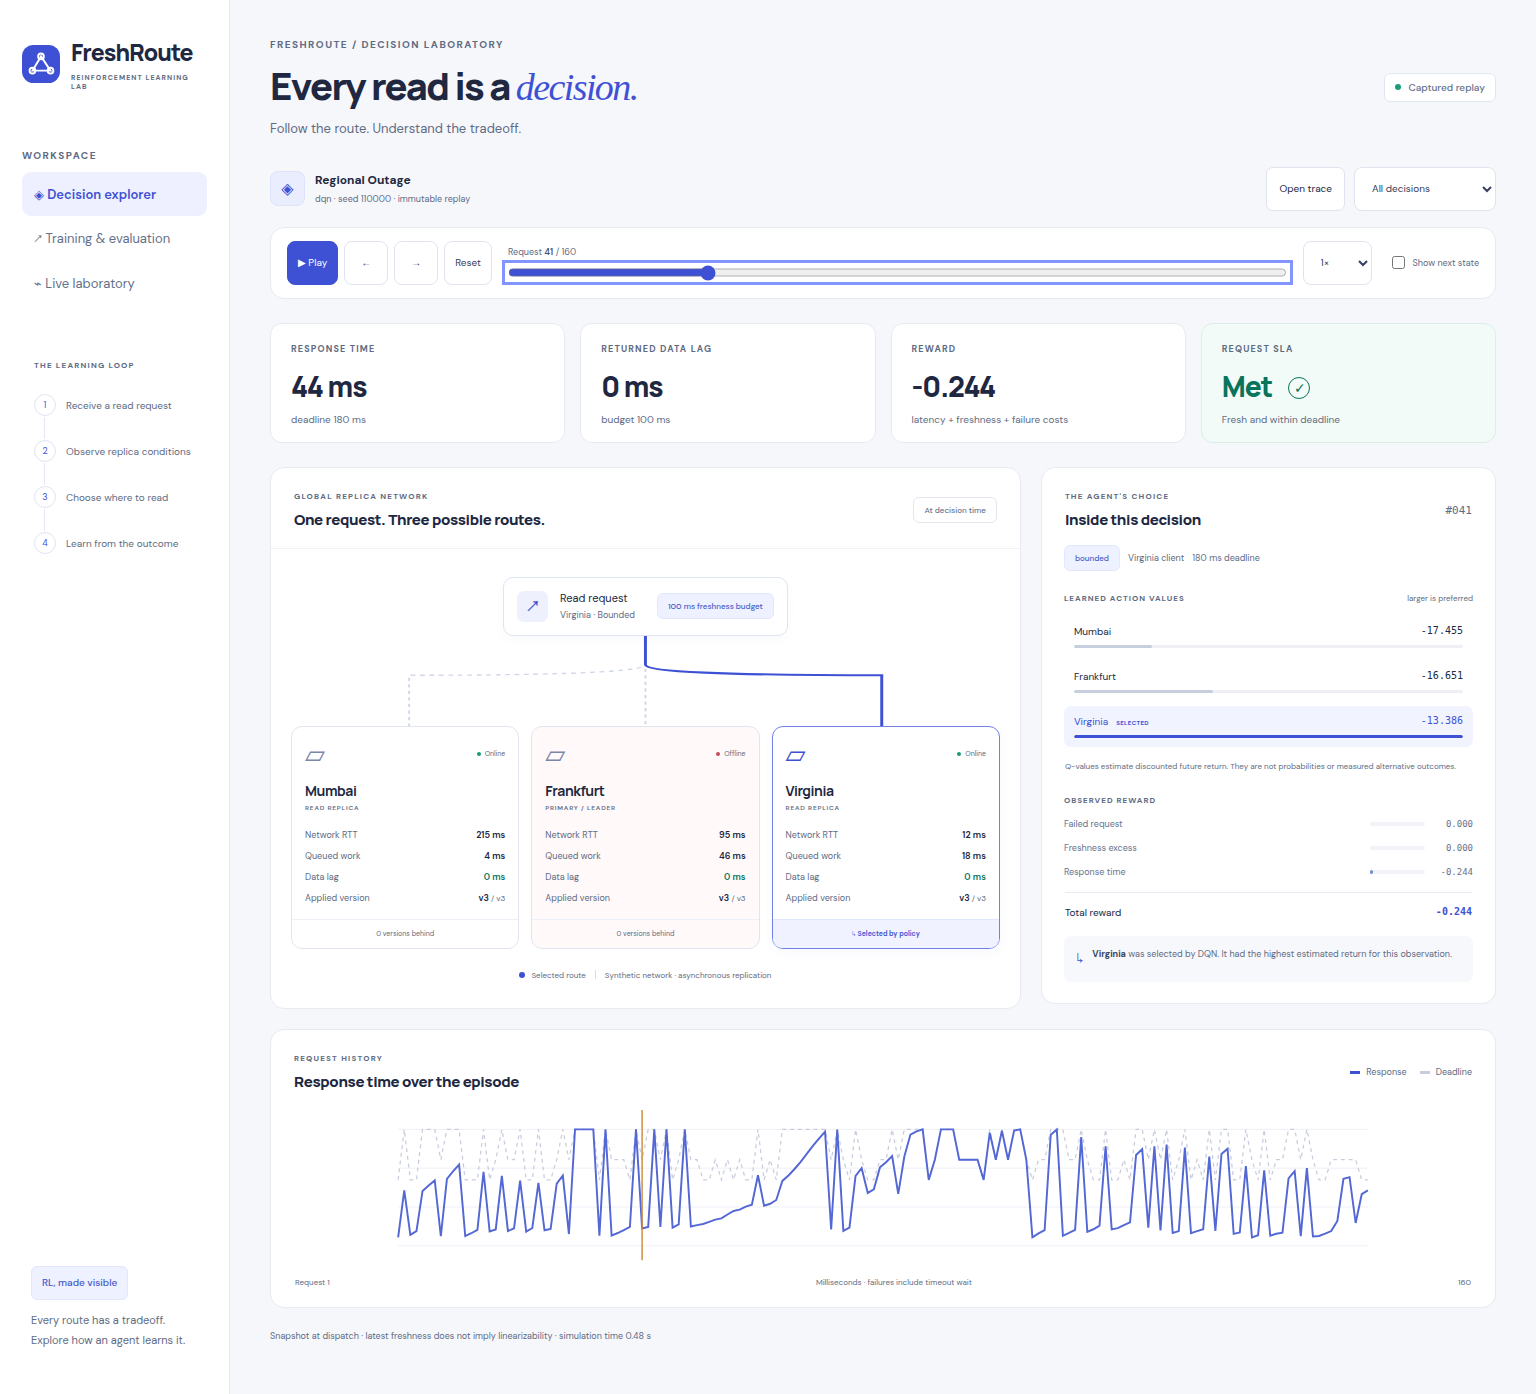
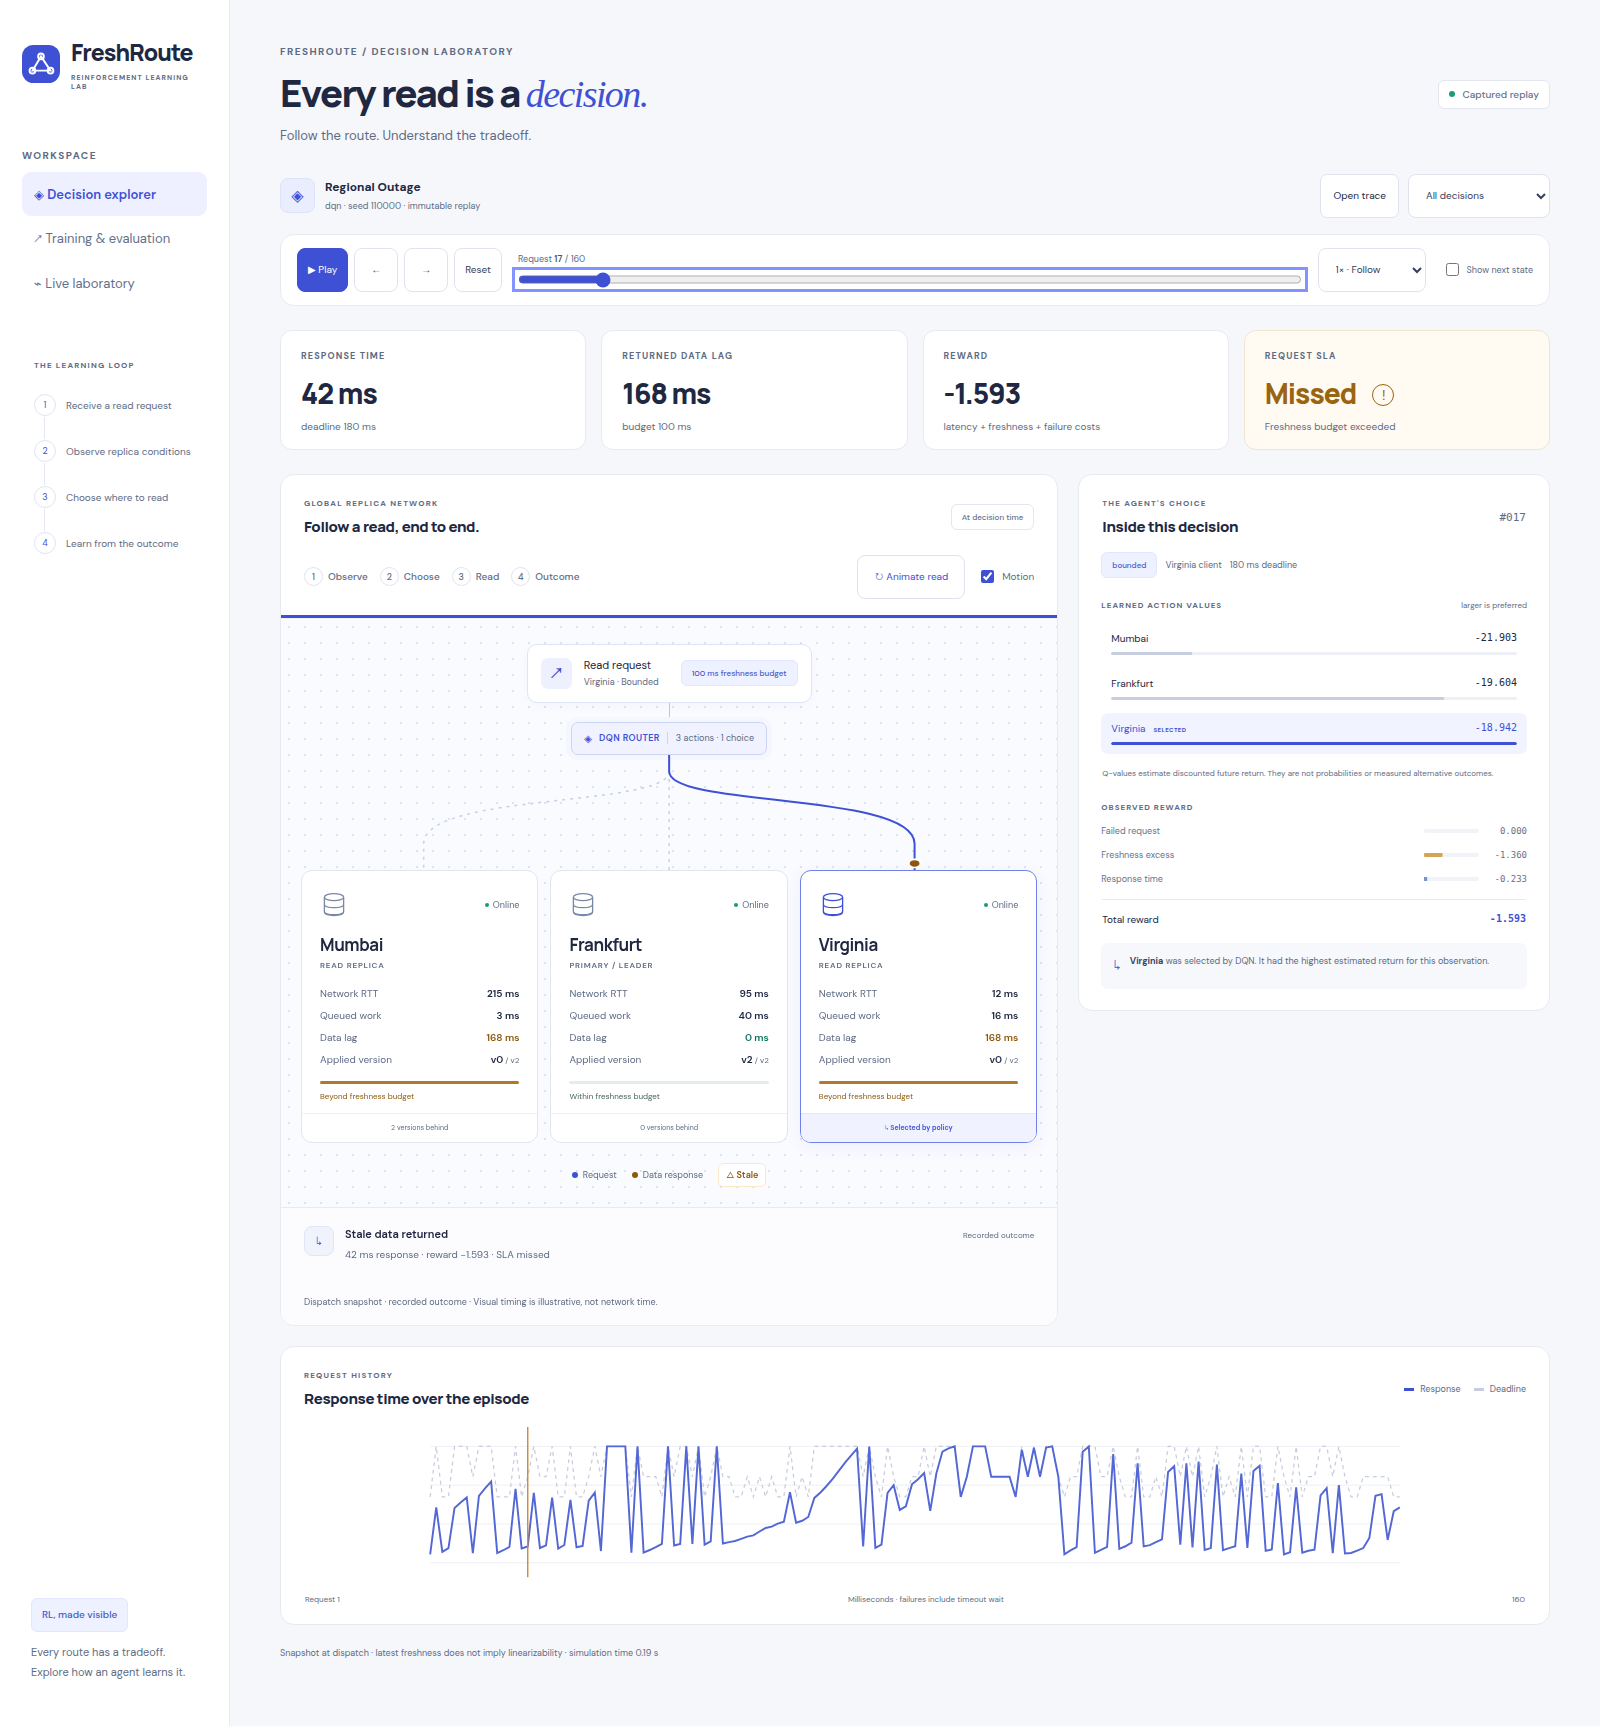
docs: explain routing motion and refresh demonstration evidence
Demonstration timeline: dates and author assignments are illustrative,
not evidence of when the original work occurred or who performed it.
The file snapshot comes from the original commit below.

Original-Commit: 99f26c66e37d5836addf0696341f3e064bd1e35c
Original-Author: Khushvendra <khushvendras99@gmail.com>
Original-Author-Date: 2026-10-23T14:54:23+05:30

diff --git a/docs/validation.md b/docs/validation.md
@@ -7,16 +7,21 @@ The user story is: choose a replay or live model in the browser, observe real ro
 | Python simulator and learning | 30 checks pass, including reward accounting, freshness/version invariants, seeded replay, temporal-difference updates, training/save/load, Gymnasium checker, and observation bounds. |
 | Release model and evidence | All 14 frozen weights hashes verify; selected model and trace hashes verify; the current simulator exactly reproduces the saved DQN replay. |
 | API and simulator | Seeded API decision records equal CLI records; sessions remain isolated; episode completion, invalid requests, fault injection, export integrity, and selected-decision counterfactuals pass. |
-| Browser and actual API | Four Playwright tests pass against the built app at port 8000, including real DQN inference, outage injection, and same-snapshot branch rendering. |
+| Browser and actual API | Eight Playwright tests pass against the built app at port 8000, including real DQN inference, outage injection, and same-snapshot branch rendering. |
 | Replay interaction | Displayed action/reward values match trace data; keyboard stepping, last-record stopping, reset, invalid-file rejection, and mobile width checks pass. |
 | Accessibility | Automated WCAG A/AA rules report no violations in the tested replay and live/branch views. Manual screen-reader review remains a team check. |
 | Production bundle | TypeScript and Vite production build pass; fonts and default replay assets are bundled locally. |
-| Clean checkout | A separate Git archive installed all 31 Python packages from the hashed locks and all 77 npm packages from the lockfile, built the app, passed all 30 Python checks, and passed all four browser checks against its own server on port 8001. Cached downloads were reused; project environments and build outputs were created afresh. |
+| Animated routing | Packet geometry follows the selected actual route. Successful and stale reads return data; timeout/offline reads have no return packet. Pause/resume, automatic replay interruption, rapid seeking, next-state exclusion, local motion disable, dynamic system reduced-motion changes, and mobile width checks pass. |
+| Development mode | Representative packet/pause/return and preference-change browser tests also pass against Vite with React Strict Mode. |
+| Clean checkout, original release | A separate Git archive of the original release installed all 31 Python packages from the hashed locks and all 77 npm packages from the lockfile, built the app, passed all 30 Python checks, and passed all four original browser checks against its own server on port 8001. Cached downloads were reused; project environments and build outputs were created afresh. |
+| Clean frontend, motion extension | A fresh temporary frontend directory installed all 82 npm packages from the updated lockfile and completed TypeScript/Vite production build with the same output hashes as the working frontend. The Python implementation and model artifacts are unchanged by this extension. |
 | Training revision provenance | Recomputed source fingerprints match Q-learning commit `dd61a07` and DQN training commit `54bb60b`. |
 
 Tested runtime: Linux, Python 3.12.14, Node.js 24.21.0, Gymnasium 1.4.0, Stable-Baselines3 2.9.0, PyTorch 2.14.1+cpu, and NumPy 2.5.4. Exact dependency hashes are in the Python locks and npm lockfile. The original Q-learning artifact was produced with Python 3.12.3 at its recorded source revision.
 
 The restricted execution sandbox stalled the API test client's local event-loop startup and denied esbuild's postinstall binary execution in the clean checkout. Both passed when rerun with the required local execution/socket permissions; the evidence above uses those successful runs. CodeRabbit was signed out, so external CodeRabbit review was not performed. Direct code inspection and executable checks were completed.
+
+The motion extension uses Motion 14.6.0's mini entry point and includes its MIT notice in the built static assets. The isolated engine measures 3,349 bytes gzip; total application JavaScript is 83.44 kB gzip and CSS is 9.33 kB gzip. See [measurement details and visual semantics](visualization.md). Updated screenshots were captured from the actual application. Automated accessibility checks cover the tested views; no frame-rate benchmark, low-end-device measurement, or narrated video is claimed.
 
 ## Re-run
 

diff --git a/docs/visualization.md b/docs/visualization.md
@@ -1,0 +1,36 @@
+# Following a read through the system
+
+The web laboratory turns a real routing decision into a finite visual walkthrough. Press **Animate read** to inspect one decision, or **Play** to follow the captured episode. In the live laboratory, each actual simulator step starts a walkthrough of that new decision.
+
+![A paused real routing walkthrough](images/read-walkthrough.png)
+
+## What the motion means
+
+| Stage | Visual | Data source |
+| --- | --- | --- |
+| Observe | Client region, request class, freshness budget, and deadline | Observation available before acting |
+| Choose | Policy hub and the selected replica's route | Executed action and recorded learned Q-values |
+| Read | Blue request packet, service indicator, and a possible return packet | Selected action, dispatch telemetry, and recorded transport outcome |
+| Outcome | Fresh/stale/failed status, measured response, and reward narration | Actual recorded outcome and reward terms |
+
+A successful read returns a green packet when it meets the freshness budget, or an amber packet when its data is stale. Offline and timed-out reads have no return packet; the narration explains the failure. Labels and symbols accompany the colors. The replica gauges compare observed timestamp lag with the request's budget, capped at a full gauge when exceeded.
+
+Animation timing is illustrative. The measured latency remains the recorded number of milliseconds, regardless of playback speed. All recorded outcome metrics are available immediately, including while paused. The walkthrough neither changes the simulator nor requests another action. Live inference uses frozen RL weights; observing a reward in this view does not retrain the agent.
+
+Q-value bars compare estimated returns within the current observation. They are not probabilities or measured alternatives. Use the live snapshot branches to measure alternative outcomes from identical simulator and random state.
+
+## Presentation controls
+
+- **Animate read / Pause motion / Resume:** inspect the current read without advancing it. Pausing motion also stops automatic replay or live advancement.
+- **0.5× Explain / 1× Follow / 4× Scan:** nominal walkthrough durations of 6.4, 3.2, and 0.8 seconds. Live automatic reads use the 3.2-second presentation interval plus inference time.
+- **Previous / Next / seek / filters:** inspect another actual decision. The preceding walkthrough is canceled. Captured replay opens with a static recorded outcome.
+- **Motion:** disable routing motion while retaining all information. A system reduced-motion preference disables the engine and updates immediately when the preference changes.
+- **Show next state:** display the next observation without moving packets. The highlighted route still identifies the preceding action, as stated in the caption.
+
+## Engine and cost
+
+The application imports only `animate` from [`motion/mini`](https://motion.dev/docs/animate), pinned to Motion **14.6.0**, under its [MIT license](../web/public/motion-license.txt). The browser runs finite transform and opacity animations. SVG paths are native elements, with packet positions sampled from the selected path. There is one active walkthrough, cleaned up on replacement or unmount, and no continuous background traffic or graph-physics loop.
+
+An isolated minified ES2022 browser bundle exporting this entry point measured **8,444 bytes raw / 3,349 bytes gzip** using the lockfile's esbuild and Node gzip. The complete production JavaScript bundle grew from **77.86 kB to 83.44 kB gzip**, including the engine and all new UI logic; CSS is **9.33 kB gzip**. These are build measurements, not a frame-rate or low-end-device benchmark. Fonts, replay data, and the license notice are local assets.
+
+The implementation is in [Topology.tsx](../web/src/Topology.tsx), [read-motion.ts](../web/src/read-motion.ts), and [topology.css](../web/src/topology.css). Browser checks in [routing-motion.spec.ts](../web/e2e/routing-motion.spec.ts) exercise real recorded trajectories, stale and failed responses, pause/resume, interrupted playback, seeking, and reduced motion. See the [verification record](validation.md).

diff --git a/README.md b/README.md
@@ -12,7 +12,7 @@ FreshRoute RL is a runnable reinforcement learning laboratory for staleness-awar
 
 - Three simulated replicas with persistent queues, asynchronous version replay, region-dependent RTTs, deadlines, and request-specific freshness budgets.
 - Genuine tabular Q-learning and CPU DQN training, saved models, frozen inference, and checksummed replay traces.
-- Replay controls, topology, pre-action telemetry, learned action values, reward terms, learning curves, and policy comparisons.
+- Replay controls, animated request/response routing, pre-action telemetry, learned action values, reward terms, learning curves, and policy comparisons.
 - Isolated live sessions with outages, lag, workload pressure, restoration, trace export, and exact-state counterfactual branches.
 - A preserved 14-model DQN study: five full-observation training seeds and three per ablation; 700,000 training interactions, paired validation, and a frozen final test.
 
@@ -43,9 +43,11 @@ python -m pip install --extra-index-url https://download.pytorch.org/whl/cpu --r
 
 In the interface:
 
-1. **Decision explorer:** play, step, seek, filter events, open a local JSONL trace, and compare pre-action versus next-state telemetry. The bundled trace is verified against its manifest hash.
+1. **Decision explorer:** play, step, seek, filter events, open a local JSONL trace, and compare pre-action versus next-state telemetry. Use **Animate read** to follow observation → choice → read → outcome, or choose Explain/Follow/Scan playback speeds. Motion can be paused or disabled and respects the system reduced-motion preference. The bundled trace is verified against its manifest hash.
 2. **Training & evaluation:** inspect raw learning curves and the bundled frozen model's test results. This report has its own model/split identity; it does not evaluate a newly opened custom trace.
 3. **Live laboratory:** choose a trained model, workload, and validation seed; start a session, inject faults, step the agent, compare all replica choices from the selected exact snapshot, or export the trace.
+
+The [visualization guide](docs/visualization.md) explains the motion and its data sources. It uses the MIT-licensed [Motion mini engine](https://motion.dev/docs/animate), measured at 3.3 kB gzip in isolation. Animation speed illustrates the sequence; response times and rewards remain actual simulator measurements.
 
 ## Run the RL core without the web stack
 
@@ -109,7 +111,7 @@ For browser checks, keep the server running in another terminal:
 LAB_URL=http://127.0.0.1:8000 npm --prefix web run test:e2e
 ```
 
-Tests use installed Chrome at `/usr/bin/google-chrome`; set `CHROME_PATH` for another installation, or install Playwright Chromium. Automated checks cover replay accuracy, keyboard navigation, invalid uploads, mobile layout, actual live DQN/fault/counterfactual flow, and WCAG A/AA rules in replay/live views. They do not replace a manual screen-reader review.
+Tests use installed Chrome at `/usr/bin/google-chrome`; set `CHROME_PATH` for another installation, or install Playwright Chromium. Eight browser checks cover replay accuracy, real packet paths and return/failure semantics, pause/seek cleanup, reduced motion, keyboard navigation, invalid uploads, mobile layout, actual live DQN/fault/counterfactual flow, and WCAG A/AA rules in replay/live views. They do not replace a manual screen-reader review.
 
 For frontend development, keep the Python server running and use `npm --prefix web run dev`. Vite proxies `/api` to port 8000. After changing demo/release artifacts, rerun `node scripts/sync-demo.mjs` and rebuild.
 

diff --git a/docs/demo-guide.md b/docs/demo-guide.md
@@ -5,7 +5,7 @@ Run the setup/build/server commands in the [README](../README.md), then open `ht
 | Time | Show | Explain |
 | --- | --- | --- |
 | 0:00–0:45 | Three-region topology and SLA classes | Nearest reads can be stale; leader reads can be slow or overloaded. Requests have different budgets. |
-| 0:45–1:30 | Pause and step a replay decision | Separate the observation available before acting from the outcome measured afterward. Identify the largest Q-value and selected action. |
+| 0:45–1:30 | Animate a replay decision at Explain speed, then pause and step | Follow observation → choice → read → outcome. Separate dispatch telemetry from measured outcomes. Identify the largest Q-value and selected action. |
 | 1:30–2:15 | Queue pressure, data lag, reward costs, next-state toggle | Routing changes future workload; timestamp lag differs from time since the last write. Sum the cost terms. |
 | 2:15–3:00 | Training and evaluation view | Show the actual learning curve, test split, named controls, and limitations. Reported scores come from a fixed synthetic workload. |
 | 3:00–4:00 | Live laboratory, DQN, seed 110000, balanced workload | Start a session, inject a Mumbai outage for 20 reads, and step. Observe actual availability/choice changes. Restore the replica or inject follower lag. |
@@ -13,6 +13,8 @@ Run the setup/build/server commands in the [README](../README.md), then open `ht
 | 4:40–5:00 | Export trace/manifest and open repository | Show reproducible setup, trained models, validation/test evidence, and actual incremental commits. |
 
 Outage or lag injection need not change the chosen replica on every request. The agent may already prefer another replica. Explain the actual displayed result instead of promising a scripted reaction.
+
+For a clear motion example, reset the replay and press **Animate read**: the first read returns fresh data. Seek to request 17 for a real stale response, request 30 for an unavailable replica, or request 87 for a timeout. Stale data returns in amber; failed reads have no return packet. The phase narration describes the captured result, and playback duration does not represent physical network latency. **Pause motion** also stops automatic advancement; **Resume** walks through the current read. See the [visualization guide](visualization.md) and [walkthrough screenshot](images/read-walkthrough.png).
 
 For a compact backup, use the bundled immutable replay. It works without a live inference session. Keyboard navigation, reduced-motion support, and a narrow-screen layout are available. Screenshots of the real interface are in [images](images/decision-explorer.png).
 

diff --git a/docs/commit-plan.md b/docs/commit-plan.md
@@ -1,6 +1,6 @@
 # Structured commit record
 
-The original 16-unit plan has been implemented as real local commits on `main`, with `origin` configured to `https://github.com/1amKhush/freshroute-rl.git`. Independent web work was committed once its prerequisites were ready; Git history records the actual order. No dates or contributor identities were fabricated.
+The original 16-unit plan and the routing-motion extension have been implemented as real commits on `main`, with `origin` configured to `https://github.com/1amKhush/freshroute-rl.git`. Independent web work was committed once its prerequisites were ready; Git history records the actual order. No dates or contributor identities were fabricated.
 
 | Unit | Commit | Work |
 | --- | --- | --- |
@@ -19,7 +19,9 @@ The original 16-unit plan has been implemented as real local commits on `main`, 
 | C13 | `4a7bdda` | feat: inject replica faults during live inference |
 | C14 | `0a708a3` | feat: explain alternatives with snapshot counterfactuals |
 | C15 | `23ad6f6` | experiment: freeze final models and held-out test results |
-| C16 | this documentation commit | docs: publish reproduction guide report and demo script |
+| C16 | `a376277` | docs: publish reproduction guide report and demo script |
+| C17 | `4319ddc` | feat: animate recorded read routing with Motion mini |
+| C18 | this documentation commit | docs: explain routing motion and refresh demonstration evidence |
 
 ## Validation and scope
 
@@ -28,6 +30,8 @@ Simulator/learning invariants, Gymnasium checker, real DQN save/reload, paired e
 C08/C15 use the documented initial 50000-step-per-model budget: 14 models and 700000 interactions, five full-agent seeds and three per ablation. The original longer training and reward-weight sweeps remain extensions. Final-test results were generated after recording validation selection and model hashes.
 
 C16 provides setup, methods/results, screenshots, a demo script, and automated clean-checkout verification. Approved team names/roles and the narrated presentation remain to be supplied by the actual team.
+
+C17 adds finite, trace-driven request/response motion, phase narration, replay/live pause controls, accessible motion preferences, a pinned lightweight engine with its MIT notice, and four new behavioral browser checks. C18 documents the visual semantics and measured bundle cost, updates the demonstration instructions, and captures the real revised interface. Eight production browser checks, representative React development checks, and a clean frontend install/build validate the extension.
 
 ## Future commit discipline
 
